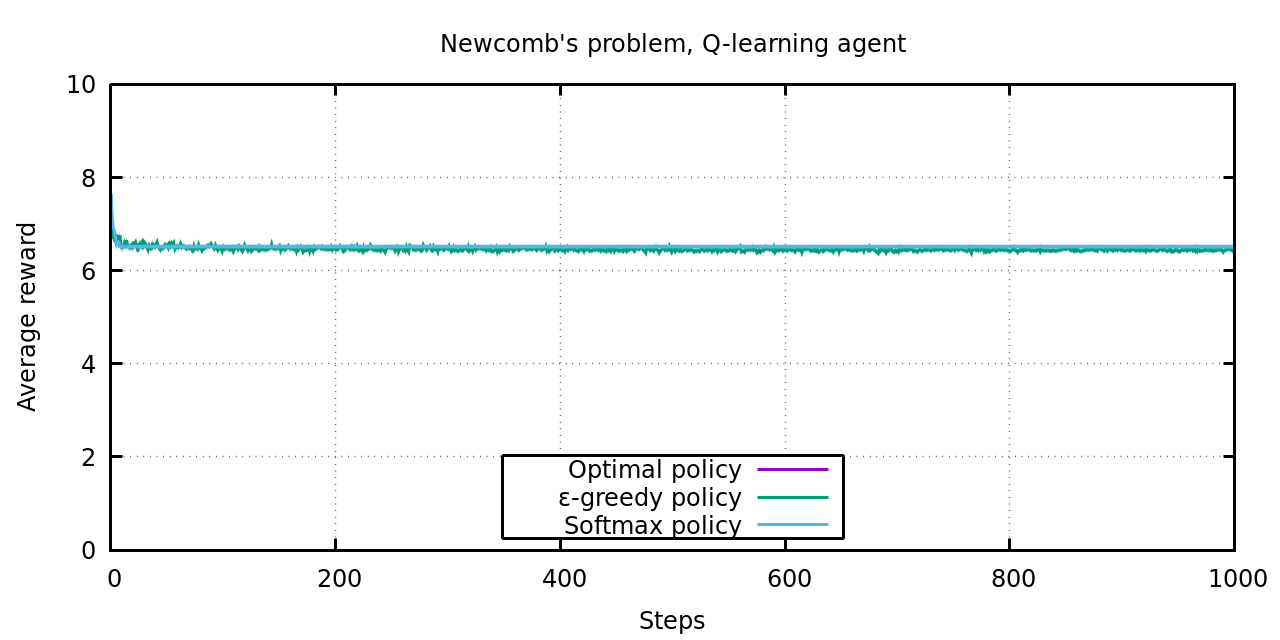
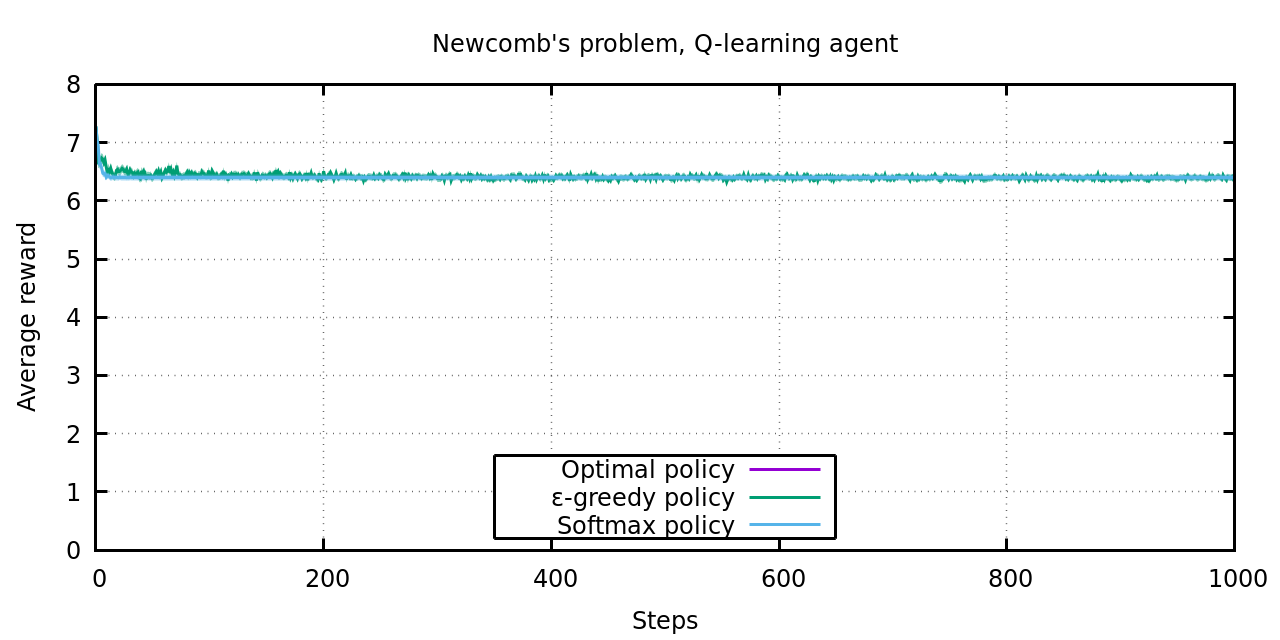
Add more environments

diff --git a/main.py b/main.py
@@ -17,65 +17,81 @@ class BanditEnvironment:
         assert action >= 0 and action < self.num_arms
         return np.random.normal(self.true_values[action], 1)
 
-    def get_best_reward(self) -> int:
+    def get_optimal_reward(self) -> int:
         return self.true_values.max()
 
     def reset(self):
         self.true_values = np.random.normal(0, 1, (self.num_arms,))
 
-class NewcombEnvironment:
+class NewcombLikeEnvironment:
     """
-    Newcomb's problem
+    Policy dependent environment with two possible actions
 
-    Two actions:
-        one-box (0): take box B
-        two-box (1): take boxes A+B
-
-    Box A is always filled with a small reward. Box B is filled with a larger reward, only if the agent the agent is predicted to one-box.
+    If action i was predicted and action j was taken, the reward will be reward_table[i][j]
     """
-    def __init__(self):
-        self.boxA = 5   # guaranteed content of first box
-        self.boxB = 10  # conditional content of second box
+    def __init__(self, reward_table):
+        assert len(reward_table) == 2
+        self.reward_table = reward_table
 
     def interact(self, action : int, policy) -> float:
-        box_filled = np.random.binomial(1, policy[0])  # fill second box at one-boxing rate
-        return self.boxA*(action==1) + self.boxB*box_filled
+        prediction = np.random.choice(len(policy), p=policy)
+        return self.reward_table[prediction][action]
 
-    def get_best_reward(self) -> int:
-        return max(self.boxA, self.boxB)  # typically boxB > boxA
+    def get_optimal_reward(self) -> int:
+        # The reward is a quadratic function of the probability of taking action 0.
+        # Thus, there are three policies that could potentially be optimal
+        (a,b),(c,d) = self.reward_table
+        return max(
+            a,  # always take action 0
+            d,  # always take action 1
+            (a*d-(b+c)**2/4)/(a+d-b-c) if (a+d-b-c) != 0 else float("inf")
+                # take action 0 with probability (b+c-2*d)/(b+c-a-d)/2
+        )
 
     def reset(self):
         pass
 
-class DeathInDamascusEnvironment:
-    """
-    Death in Damascus
 
-    Two actions:
-        go to Damascus (0)
-        go to Aleppo (1)
-    
-    Death knows the agent's policy and goes to one of the cities. If they end up in the same city, the agent dies.
-    """
+class NewcombEnvironment(NewcombLikeEnvironment):
     def __init__(self):
-        self.death = 0  # reward upon death
-        self.life = 10  # reward upon survival
+        boxA = 5   # guaranteed content of first box
+        boxB = 10  # conditional content of second box
+        super().__init__([
+            [boxB, boxB+boxA],
+            [0,    boxA     ]
+        ])
 
-    def interact(self, action : int, policy) -> float:
-        death = int(np.random.binomial(1, policy[1]))  # city chosen by death
-        return self.death if (action==death) else self.life
+class DeathInDamascusEnvironment(NewcombLikeEnvironment):
+    def __init__(self, asymmetry = 0.):
+        death = 0  # reward upon death
+        life = 10  # reward upon survival
+        super().__init__([
+            [death, life ],
+            [life,  death],
+        ])
 
-    def get_best_reward(self) -> int:
-        return (self.life + self.death) / 2  # optimal policy 50/50 mix
+class AsymmetricDeathInDamascusEnvironment(NewcombLikeEnvironment):
+    def __init__(self):
+        death_in_damascus = 0   # reward upon death in Damascus
+        death_in_aleppo = 5     # reward upon death in Aleppo
+        life = 10               # reward upon survival
+        super().__init__([
+            [death_in_damascus, life           ],
+            [life,              death_in_aleppo],
+        ])
 
-    def reset(self):
-        pass
+class CoordinationGameEnvironment(NewcombLikeEnvironment):
+    def __init__(self):
+        super().__init__([
+            [2, 0],
+            [0, 1],
+        ])
 
 def epsilon_greedy(q, num_actions, step):
     # Exploitation: randomly chose among the actions with highest value
-    best_actions = q == q.max()
+    best_actions = (q == q.max())
     exploit = np.ones((num_actions,))*best_actions / best_actions.sum()
-    
+
     # Exploration: pick action uniformly
     explore = np.ones((num_actions,))/num_actions
 
@@ -86,7 +102,7 @@ def epsilon_greedy(q, num_actions, step):
 def softmax(q, num_actions, step):
     # Softmax of Q-values with decaying temperature
     temperature = max(0.05, 1.0 / (step ** 0.3))
-            
+
     # Numerically stable softmax
     q_shifted = q - q.max()
     exp_q = np.exp(q_shifted / temperature)
@@ -128,6 +144,12 @@ def main(options):
     elif options.environment == "damascus":
         env = DeathInDamascusEnvironment()
         assert options.arms == 2
+    elif options.environment == "asymmetric-damascus":
+        env = AsymmetricDeathInDamascusEnvironment()
+        assert options.arms == 2
+    elif options.environment == "coordination":
+        env = CoordinationGameEnvironment()
+        assert options.arms == 2
     else:
         raise RuntimeError("Invalid environment: " + options.environment)
 
@@ -151,7 +173,7 @@ def main(options):
             print(f"Run {r+1}/{num_runs}")
         env.reset()
         agent.reset()
-        best_reward += env.get_best_reward()
+        best_reward += env.get_optimal_reward()
         for i in range(num_steps):
             policy = agent.get_policy()
             policy /= policy.sum() # for numerics
@@ -162,7 +184,7 @@ def main(options):
             agent.update(action, reward, policy)
             average_reward[i] += reward
             average_reward_sq[i] += reward**2
-            
+
     average_reward /= num_runs
     average_reward_sq /= num_runs
     average_reward_spread = np.sqrt(average_reward_sq - average_reward**2)

diff --git a/README.md b/README.md
@@ -5,9 +5,12 @@ This aims to be a minimal implementation of a reinforcement learning agent using
 The implementation focuses on bandit-like environments, i.e. environments consisting of a single time-step and where no information is available to the agent, prior to making its decision. Restricting to these environments avoids much of the complexity usually associated with this problem.
 
 The following environments are currently implemented:[^1]
-- Classical multi-armed bandit: A fixed number of discrete action are available to the agent. A reward is sampled from a different probability distribution, depending on the action.
-- Newcomb's problem: The agent chooses to take only box B or boxes A and B. Box A is always filled with a small reward. Box B is filled with a large reward, but only if the agent the agent is predicted not to take box A.
-- Death in Damascus: The agent chooses to go to either the city of Damascus or Aleppo. Death knows the agent's policy and also goes to one of the cities. If they end up in the same city, the agent dies.
+- **Classical multi-armed bandit**: A fixed number of discrete action are available to the agent. A reward is sampled from a different probability distribution, depending on the action.
+- **Newcomb's problem**: The agent chooses to take only box B or boxes A and B. Box A is always filled with a small reward. Box B is filled with a large reward, but only if the agent is predicted not to take box A.
+- **Death in Damascus**: The agent chooses to go to either the city of Damascus or Aleppo. Death knows the agent's policy and also goes to one of the cities. If they end up in the same city, the agent dies.
+- **Asymmetric Death in Damascus**: As above, but the agent prefers to die in Aleppo, rather than Damascus.
+- **Coordination game**: The agent plays a cooperative game against another agent with identical policy.
+
 
 ## Agents
 Currently, only a classical Q-learning agent is considered.[^2] The agent uses either an epsilon-greedy or a softmax policy (with decaying epsilon/temperature) to encourage exploration.
@@ -18,15 +21,16 @@ For each environment 2000 independent runs are performed. At each time step, the
 <p align="center"><img src="figures/bandit.classical.png"></p>
 <p align="center"><img src="figures/newcomb.classical.png"></p>
 <p align="center"><img src="figures/damascus.classical.png"></p>
+<p align="center"><img src="figures/asymmetric-damascus.classical.png"></p>
+<p align="center"><img src="figures/coordination.classical.png"></p>
 
 We find that the classical agent converges close to the optimal policy on the multi-armed bandit environment, but fails to do so the the Newcomb-like environments. Note that the spread of individual runs is quite large. There are runs in which the classical agent achieves close-to-optimal reward on Newcomb-like environments. But even then, it does not converge on the optimal policy and looking at the plots we clearly see that we can not rely on the agent to behave sensibly on average.
-
 
 ## Changelog and lessons learned
 ### v2
 - Remove Bayesian and Infrabayesian agents, as they are probably not doing what we want
-- Remove policy-dependent bandit environment; add Death in Damascus environment
-- Previously the predictor received the most likely (greedy) action and set up the environment based on that. This is not what we want and it creates incentives for strange policies (e.g. one-box 51% of time, two-box otherwise). A better convention is "policy peeking", where the predictor has access to the entire policy of the agent. Here, policy means the probability distribution from which an action is sampled. Eventually, this should include counterfactual states (branches of the history that did not play out), but for the environments considered here this does not matter. If the agent chooses a non-deterministic policy, the predictor can correspondingly set up a non-deterministic environment (e.g. if the agent's policy is to flip a coin whether to one-box or two-box, the predictor will flip a coin whether to fill the second box)
+- Remove policy-dependent bandit environment; add more Newcomb-like environments
+- Previously the predictor received the most likely (greedy) action and set up the environment based on that. This is not what we want and it creates incentives for strange policies (e.g. one-box 51% of time, two-box otherwise). A better convention is *policy peeking*, where the predictor has access to the entire policy of the agent. Here, policy means the probability distribution from which an action is sampled. Eventually, this should include counterfactual states (branches of the history that did not play out), but for the environments considered here this does not matter. If the agent chooses a non-deterministic policy, the predictor can correspondingly set up a non-deterministic environment (e.g. if the agent's policy is to flip a coin whether to one-box or two-box, the predictor will flip a coin whether to fill the second box)
 - The statement above implicitly contains a design choice: we assume that the predictor knows the probability distribution. Alternatively, we could say that the predictor is able to predict even the outcome of the random sampling and thus knows the action. The former choice is probably more interesting. Also, for the environments considered here the second choice would effectively turn them into classical environments (if the predictor knows the exact action, it would not care how the agent got there and the policy dependence disappears. The outcome only depends on the agent's action)
 - Policies are explicitly represented as probability distributions, rather than just functions that sample from them (such that the predictor can inspect them)
 - Add softmax policy type, in addition to epsilon-greedy
@@ -37,5 +41,4 @@ We find that the classical agent converges close to the optimal policy on the mu
 
 
 [^1]: *Reinforcement Learning in Newcomblike Environments*, Proceedings to NeurIPS 2021, [PDF](https://proceedings.neurips.cc/paper_files/paper/2021/file/b9ed18a301c9f3d183938c451fa183df-Paper.pdf)
-
 [^2]: *Reinforcement Learning: An Introduction*, Richard S. Sutton and Andrew G. Barto, Second Edition, MIT Press, Cambridge, MA, 2018, [PDF](https://web.stanford.edu/class/psych209/Readings/SuttonBartoIPRLBook2ndEd.pdf)
